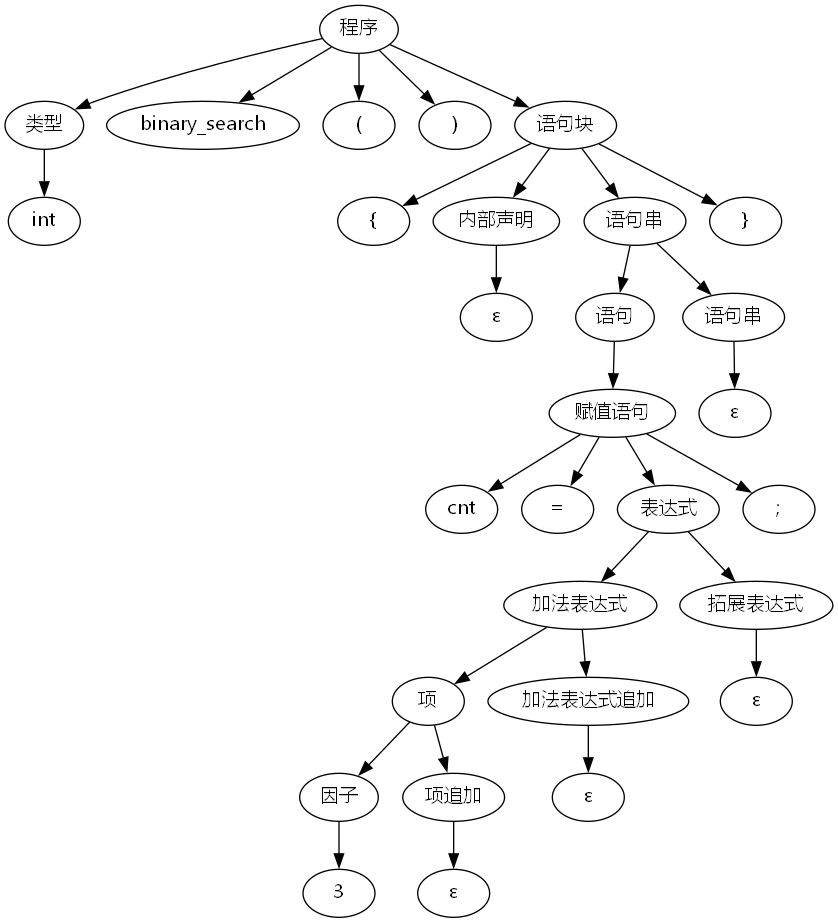
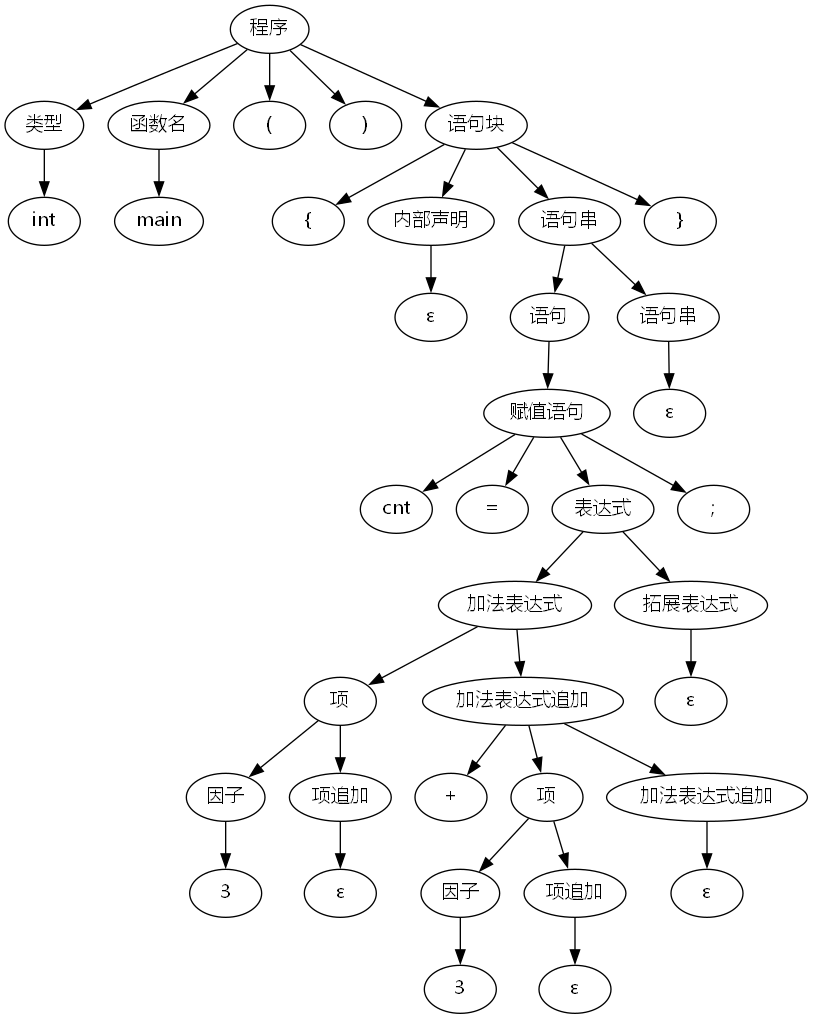
完成赋值语句和表达式翻译

diff --git a/analyser.py b/analyser.py
@@ -1,23 +1,54 @@
-from base import prod_actions, productions, grammar_tree
+from base import prod_actions, productions, grammar_tree, getErrorCodeLine
+from base import nextquad, mid_code, list_dict as ldict
 import re
 
-mid_code = []
-nextquad = 100
+#故障处理函数
+def checkFuncDefined(name, node):
+    if name not in ldict['func']:
+        raise Exception('\033[1;31;31m[Error]#301 in line {}, position {}: Function name <{}> not defined.\n{}'.format(*node['debug_pos'],name,getErrorCodeLine(*node['debug_pos'], node['cont'])))
 
+def checkFuncNotDefined(name, node):
+    if name in ldict['func']:
+        raise Exception('\033[1;31;31m[Error]#302 in line {}, position {}: Function name <{}> has already defined.\n{}'.format(*node['debug_pos'],name,getErrorCodeLine(*node['debug_pos'], node['cont'])))
+
+def checkVarDefined(name, node):
+    var_list = [x[0] for x in ldict['var']]
+    if name not in var_list:
+        raise Exception('\033[1;31;31m[Error]#303 in line {}, position {}: Variable name <{}> not defined.\n{}'.format(*node['debug_pos'],name,getErrorCodeLine(*node['debug_pos'], node['cont'])))
+
+def checkVarNotDefined(name, node):
+    var_list = [x[0] for x in ldict['var']]
+    if name in var_list:
+        raise Exception('\033[1;31;31m[Error]#304 in line {}, position {}: Variable name <{}> has already defined.\n{}'.format(*node['debug_pos'],name,getErrorCodeLine(*node['debug_pos'], node['cont'])))
+
+#工作函数
 def emit(expr, t1, t2, s1):
     mid_code.append((expr,t1,t2,s1))
 
-def makelist(i):
-    return [i]
+#回填函数
+def MidCodeFill(no, pos, name):
+    mid_code[no-100][pos] = name
+
+var_num = 0
+def newVar():
+    global var_num
+    name = 'tmp_' + str(var_num)
+    var_num += 1
+    return name
+
+
 
 def analysis(id, last_oper):
-    global nextquad
-    node = grammar_tree[id]
     for lst in prod_actions[last_oper]:
         if lst != 'pass':
             lst = re.sub(r'\.(\w+)',lambda x: "['{}']".format(x.group(1)), lst)#翻译 将.val 翻成['val']
-            lst = re.sub(r'@l',"node", lst) #翻译 将@l 翻成实际左边元素
-            lst = re.sub(r'@r(\d+)',lambda x: "grammar_tree[{}]".format(node['son'][int(x.group(1))]), lst) #翻译 将@r1 翻译为实际右边元素
+            lst = re.sub(r'@l',"grammar_tree[id]", lst) #翻译 将@l 翻成实际左边元素
+            lst = re.sub(r'@r(\d+)',lambda x: "grammar_tree[{}]".format(grammar_tree[id]['son'][int(x.group(1))]), lst) #翻译 将@r1 翻译为实际右边元素
+            lst = re.sub(r'->','.', lst)#翻译 将-> 翻成.
             print(lst)
-            exec(lst)
+            try:
+                exec(lst)
+            except Exception as err:
+                print(err)
+                return False
     return True

diff --git a/gparser.py b/gparser.py
@@ -84,10 +84,10 @@ def GParser():
                 it = input_st.pop()
                 sym_st.append(it[0]) #将符号提取出符号栈中
                 state_st.append(t[1]) #将当前的状态提取出放入状态栈
-                id_st.append(addGrammarTreeNode(sym_st[-1], son_st, it[1])) #存放语法树节点
+                id_st.append(addGrammarTreeNode(sym_st[-1], son_st, it[1], (it[2][0], it[2][1]-1) )) #存放语法树节点
                 son_st = []
                 if last_oper != -1:#如果该节点是规约而来
-                    analysis(id_st[-1], last_oper)
+                    if not analysis(id_st[-1], last_oper): return False
                     last_oper = -1
             elif t[0] == 'r': #规约
                 last_oper = t[1]
@@ -97,8 +97,8 @@ def GParser():
                     son_st.append(id_st.pop()) #并将其放入孩子栈中
                 son_st.reverse()
                 if len(productions[t[1]]['right']) == 0: #如果是空串,额外添加ε
-                    son_st.append(addGrammarTreeNode('@', [], 'ε'))
-                input_st.append([productions[t[1]]['left'], '']) #将规约完的节点添加到input串中
+                    son_st.append(addGrammarTreeNode('@', [], 'ε', (0,0)))
+                input_st.append([productions[t[1]]['left'], '', (grammar_tree[son_st[0]]['debug_pos'][0],0)]) #将规约完的节点添加到input串中
             else:#规约成功 acc
                 print("\033[1;32;32m[Info]Garmmar analysis success!\033[0m")
                 break

diff --git a/base.py b/base.py
@@ -11,8 +11,8 @@ args = parser.parse_args()
 #词法分析BASE
 #保留字表
 s_code=['']
-def getErrorCodeLine(l, p, str):
-    return '\033[1;31;36m{}:{}\033[1;33;33m{}\033[1;31;36m{}\033[0m'.format(l,s_code[l][:p], str, s_code[l][p+len(str):])
+def getErrorCodeLine(l, p, str=''):
+    return '\033[1;31;36m{}:{}\033[1;33;33m{}\033[1;31;36m{}\033[0m'.format(l,s_code[l][:p+1-len(str)], s_code[l][p+1-len(str):p+1], s_code[l][p+1:])
 reserve_word = [ 
     ",", "!=", "==", "<",  "<=", "=",  ">", ">=", "=", 
     "*",  "+", "-", "/",  ";", "(",  ")", "{",  "}", ".", "&&",
@@ -91,7 +91,14 @@ for x in symbol_list: #求所有元素的first集
     findSymbolFirst(x)
 
 grammar_tree=[] #[{'sym': 'S', 'son':[] , 'cont':''}]
-def addGrammarTreeNode(sym, son_st, cont=''): #添加树节点函数
-    grammar_tree.append({'sym':sym, 'son':son_st, 'cont':cont})
+def addGrammarTreeNode(sym, son_st, cont='', debug_pos=(0,0)): #添加树节点函数
+    grammar_tree.append({'sym':sym, 'son':son_st, 'cont':cont, 'debug_pos': debug_pos})
     return len(grammar_tree) - 1
 
+#语义分析参数
+mid_code = []
+nextquad = 100
+list_dict = {
+    'var': [],
+    'func': [],
+}

diff --git a/main.py b/main.py
@@ -1,7 +1,7 @@
 from lexer import Lexer
 from gparser import GParser
 from syntaxTree import drawSyntaxTree
-from base import args
+from base import args, mid_code
 
 if __name__ == '__main__':
     try:
@@ -10,7 +10,8 @@ if __name__ == '__main__':
             if Lexer(str) and GParser():
                 print('\033[1;32;32m[Info]Compile success!\033[0m')
                 #if(args.debug): 
-                drawSyntaxTree()
+                #drawSyntaxTree()
+                print(mid_code)
     except FileNotFoundError as err:
         print('\033[1;31;31m[Error]#101\033[0m')
     if(args.debug): input("输入回车继续...")

diff --git a/input.c b/input.c
@@ -1,4 +1,11 @@
-int binary_search(){
-    cnt=3;
+int main(){
+    int cnt;
+    int a;
+    int b;
+    int c;
+    int d;
+    a=1;
+    b=2;
+    cnt=d+5*(a>=1+b*c);
     
 }
